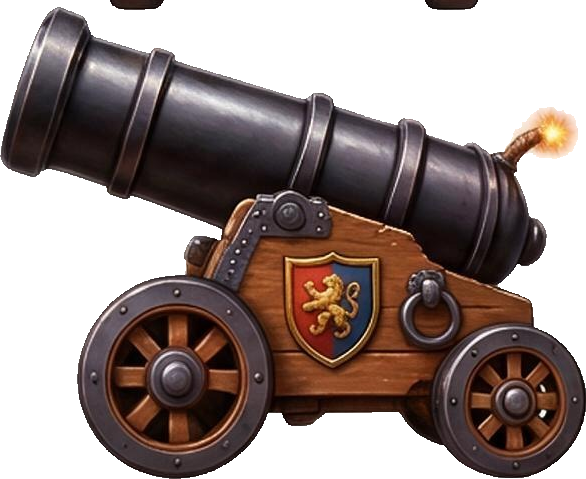
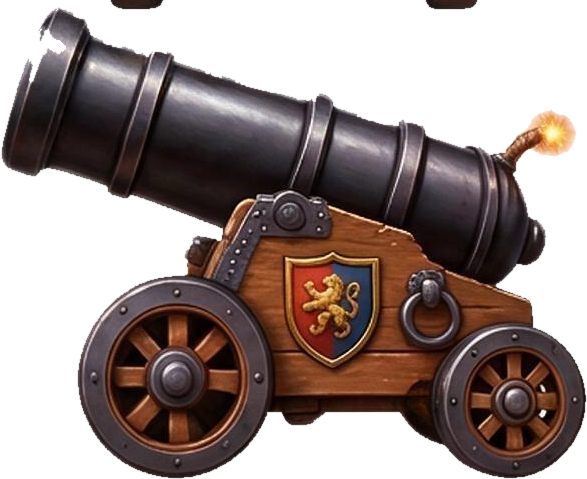
tweak(mole): 대포 위치/크기 미세조정 + 흰테두리 노이즈 제거 + 원형 포탄 + 화염 절반 (v102)
- POSES[].dx: low -0.07(좌 0.5cm), mid -0.014(좌 0.1cm), steep 0.045(우)
- low 포즈 -10% (w 0.291)
- key_white() 재작성: 경계 밝은 AA 프린지까지 band-flood 로 제거 → 흰테두리 노이즈 사라짐
- cannon-ball: 불꼬리 죽이고 원형 알파 마스크 (round_ball) — 이제 완전 동그람
- FLASH_W/SMOKE_W 절반 (0.30/0.16 → 0.15/0.08) + 포신 접합부 mask 페이드
- 원본 대포.png/대포 화염.png → assets/src/ 커밋 (슬라이스 재현 가능)

Claude-Session: https://claude.ai/code/session_01UpkCYvxAzXDPM1qMKLW4MD

diff --git a/mole/js/lane-cannon.js b/mole/js/lane-cannon.js
@@ -23,18 +23,18 @@
   //  aim  : 이 포즈 포신이 겨누는 방향 (deg, 화면좌표)
   //  tweak: 존 안에서 허용하는 미세 회전 최대치 (deg)
   const POSES = [
-    { key: 'low',   src: 'assets/weapons/cannon-low.png',   w: 0.323, ar: 0.817,
-      mu: 0.055, mv: 0.15, aim: -152, tweak: 13 },
+    { key: 'low',   src: 'assets/weapons/cannon-low.png',   w: 0.291, ar: 0.817,
+      mu: 0.055, mv: 0.15, aim: -152, tweak: 13, dx: -0.07 },
     { key: 'mid',   src: 'assets/weapons/cannon.png',       w: 0.266, ar: 1.185,
-      mu: 0.07,  mv: 0.15, aim: -138, tweak: 20 },
+      mu: 0.07,  mv: 0.15, aim: -138, tweak: 20, dx: -0.014 },
     { key: 'steep', src: 'assets/weapons/cannon-steep.png', w: 0.223, ar: 1.538,
-      mu: 0.50,  mv: 0.05, aim: -94,  tweak: 8, dx: 0.03 }
+      mu: 0.50,  mv: 0.05, aim: -94,  tweak: 8, dx: 0.045 }
   ];
 
   const REST_KEY = 'mid';                  // 발사 후 되돌아갈 기본 대기 포즈
   const FLASH_BASE_DEG = -150;             // 화염·연기 스프라이트가 기본으로 향한 방향
-  const FLASH_W = 0.30, FLASH_AR = 294 / 371;  // 화염 폭(보드분수) / 높이비 (cannon-flash 371x294)
-  const SMOKE_W = 0.16, SMOKE_AR = 254 / 211;  // 연기 폭 / 높이비 (cannon-smoke 211x254)
+  const FLASH_W = 0.15, FLASH_AR = 294 / 371;  // 화염 폭(보드분수) / 높이비 (cannon-flash 371x294)
+  const SMOKE_W = 0.08, SMOKE_AR = 254 / 211;  // 연기 폭 / 높이비 (cannon-smoke 211x254)
   const AIM_MS = 90;                       // 포즈 전환 + 미세 조준
   const RECOIL = [0.012, 0.024, 0.040];    // 살짝/보통/강 (보드 분수)
   const KICK_SEC = 0.06, SETTLE_SEC = 0.34;

diff --git a/mole/style.css b/mole/style.css
@@ -1045,6 +1045,9 @@ body { background: var(--lm-page); }
   transform: rotate(var(--lc-rot)) scale(0.45);
   transform-origin: 100% 50%;
   filter: drop-shadow(0 0 12px rgba(255, 150, 50, 0.8));
+  /* 포신과 만나는 오른쪽 끝을 부드럽게 페이드 (하드 크롭 선 감춤) */
+  -webkit-mask-image: linear-gradient(to left, transparent 0, #000 22%);
+  mask-image: linear-gradient(to left, transparent 0, #000 22%);
   z-index: 2;
 }
 .lc-flash.is-on { animation: lc-flash 0.2s ease-out forwards; }
@@ -1057,6 +1060,8 @@ body { background: var(--lm-page); }
   opacity: 0; --lc-rot: 0deg;
   transform: rotate(var(--lc-rot)) scale(0.6);
   transform-origin: 100% 50%;
+  -webkit-mask-image: linear-gradient(to left, transparent 0, #000 20%);
+  mask-image: linear-gradient(to left, transparent 0, #000 20%);
   z-index: 0;
 }
 .lc-smoke.is-on { animation: lc-smoke 0.5s ease-out forwards; }

diff --git a/mole/sw.js b/mole/sw.js
@@ -3,7 +3,7 @@
 // → 파일이 바뀌면 CACHE 버전을 안 올려도 "다음 실행"에 자동 반영된다 (이전엔 캐시-우선이라
 //   sw.js 자체가 안 바뀌면 style.css/이미지 변경이 폰에 영영 안 걸렸음).
 // SHELL 목록 자체가 바뀔 때만 CACHE 를 올린다.
-const CACHE = 'mole-game-v101';
+const CACHE = 'mole-game-v102';
 
 // bgm-boss-battle.mp3(6.8MB)는 SHELL 에 안 넣는다 — BGM 은 기본 꺼짐이라 켜는 사람만 받으면 된다.
 // vendor/face_mesh/*(약 10MB, 얼굴인식)도 SHELL 제외 — 사람두더지 메이커 처음 열 때만 필요.

diff --git a/mole/index.html b/mole/index.html
@@ -84,7 +84,7 @@
       <div id="pause-veil" class="mole-board-layer" aria-hidden="true">일시정지</div>
 
       <!-- 시작 UI = 카톡풍 대화 (폰 화면 = 보드 안) -->
-      <div id="build-tag" aria-hidden="true">v101</div>
+      <div id="build-tag" aria-hidden="true">v102</div>
       <div id="board-start" class="board-panel board-start">
         <!-- 최고 스코어: 위에서 툭 내려오는 문자 알림 -->
         <div id="start-best" class="chat-sms" aria-hidden="true">

diff --git a/mole/scripts/slice-weapons.py b/mole/scripts/slice-weapons.py
@@ -20,9 +20,23 @@ from collections import deque
 from PIL import Image, ImageFilter
 
 HERE = os.path.dirname(os.path.abspath(__file__))
+SRC = os.path.join(os.path.dirname(HERE), 'assets', 'src')
 OUT = os.path.join(os.path.dirname(HERE), 'assets', 'weapons')
-SRC_CANNON = os.path.join(os.path.expanduser('~'), 'Desktop', '대포.png')
-SRC_FIRE = os.path.join(os.path.expanduser('~'), 'Desktop', '대포 화염.png')
+_DESK = os.path.join(os.path.expanduser('~'), 'Desktop')
+
+
+def _find(repo_name, desk_name):
+    """repo assets/src (커밋본) 우선, 없으면 바탕화면 루트 / '대포 이미지/'."""
+    for c in (os.path.join(SRC, repo_name),
+              os.path.join(_DESK, desk_name),
+              os.path.join(_DESK, '대포 이미지', desk_name)):
+        if os.path.exists(c):
+            return c
+    return os.path.join(SRC, repo_name)
+
+
+SRC_CANNON = _find('cannon-poses.png', '대포.png')
+SRC_FIRE = _find('cannon-fire.png', '대포 화염.png')
 SRC_ANGLES = os.path.join(os.path.dirname(HERE), 'assets', 'src', 'cannon-angles.jpg')
 
 # cannon-angles.jpg (2496x1664) 셀 박스 — 연결요소 검출로 잡은 값
@@ -32,49 +46,90 @@ ANGLE_BOXES = {
 }
 
 
-def key_white(im):
-    """흰 배경을 테두리에서 flood 로 제거 (대포 내부엔 흰색 없음)."""
+def key_white(im, band=4):
+    """흰 배경을 테두리 flood 로 제거 + 경계의 밝은 AA 프린지(흰 테두리 노이즈)까지 먹는다.
+    대포 아웃라인은 어두워서(luma<80) flood 가 거기서 멈추고, 나무·문장·불꽃은 채도가
+    있어 안전. band = 실루엣 가장자리에서 몇 px 까지 프린지로 볼지."""
     im = im.convert('RGBA')
     px = im.load()
     w, h = im.size
 
-    def whiteish(x, y):
-        r, g, b, a = px[x, y]
-        return a > 0 and (r + g + b) / 3 > 225 and max(r, g, b) - min(r, g, b) < 24
+    def lum(x, y):
+        r, g, b, _ = px[x, y]
+        return (r + g + b) / 3
 
-    seen = bytearray(w * h)
+    def chroma(x, y):
+        r, g, b, _ = px[x, y]
+        return max(r, g, b) - min(r, g, b)
+
+    def bg_pure(x, y):        # 확실한 배경(흰색)
+        return px[x, y][3] > 0 and lum(x, y) > 208 and chroma(x, y) < 30
+
+    def fringe(x, y):         # 경계의 밝은 저채도 AA 밴드
+        return px[x, y][3] > 0 and lum(x, y) >= 132 and chroma(x, y) <= 44
+
+    # 1) 테두리에서 순수 배경 flood
+    dist = [-1] * (w * h)
     dq = deque()
     for x in range(w):
         for y in (0, h - 1):
-            if whiteish(x, y):
-                seen[y * w + x] = 1
+            if bg_pure(x, y):
+                dist[y * w + x] = 0
                 dq.append((x, y))
     for y in range(h):
         for x in (0, w - 1):
-            if whiteish(x, y):
-                seen[y * w + x] = 1
+            if bg_pure(x, y):
+                dist[y * w + x] = 0
                 dq.append((x, y))
     while dq:
         x, y = dq.popleft()
+        d = dist[y * w + x]
         for nx, ny in ((x + 1, y), (x - 1, y), (x, y + 1), (x, y - 1)):
-            if 0 <= nx < w and 0 <= ny < h and not seen[ny * w + nx] and whiteish(nx, ny):
-                seen[ny * w + nx] = 1
+            if not (0 <= nx < w and 0 <= ny < h) or dist[ny * w + nx] != -1:
+                continue
+            i = ny * w + nx
+            if bg_pure(nx, ny):
+                dist[i] = 0
+                dq.append((nx, ny))
+            elif d < band and fringe(nx, ny):   # 경계 band px 안의 밝은 프린지도 먹음
+                dist[i] = d + 1
                 dq.append((nx, ny))
     for i in range(w * h):
-        if seen[i]:
+        if dist[i] >= 0:
             x, y = i % w, i // w
             r, g, b, _ = px[x, y]
             px[x, y] = (r, g, b, 0)
-    # 알파 1px 침식 + 남은 near-white 프린지 제거
-    al = im.split()[3].filter(ImageFilter.MinFilter(3))
+
+    # 2) 알파 1px 침식 + 살짝 블러로 계단 완화
+    al = im.split()[3].filter(ImageFilter.MinFilter(3)).filter(ImageFilter.GaussianBlur(0.6))
     im.putalpha(al)
+
+    # 3) 남은 밝은 반투명 프린지 제거
     px = im.load()
     for y in range(h):
         for x in range(w):
             r, g, b, a = px[x, y]
-            if 0 < a < 255 and min(r, g, b) > 200:
+            if 0 < a < 255 and lum(x, y) > 175 and chroma(x, y) < 40:
                 px[x, y] = (r, g, b, 0)
     return im
+
+
+def round_ball(src, cx, cy, r):
+    """대포 화염 시트에서 철구를 (cx,cy) 중심 반지름 r 로 잘라 원형 알파 마스크."""
+    from PIL import ImageDraw
+    crop = src.crop((cx - r, cy - r, cx + r, cy + r)).convert('RGBA')
+    n = crop.size[0]
+    px = crop.load()
+    for y in range(n):          # 밝은 주황 불꼬리 픽셀 제거
+        for x in range(n):
+            rr, gg, bb, a = px[x, y]
+            if rr > 150 and rr > bb + 60:
+                px[x, y] = (rr, gg, bb, 0)
+    m = Image.new('L', (n * 4, n * 4), 0)
+    ImageDraw.Draw(m).ellipse((2, 2, n * 4 - 2, n * 4 - 2), fill=255)
+    m = m.resize((n, n), Image.LANCZOS).filter(ImageFilter.GaussianBlur(0.6))
+    crop.putalpha(m)
+    return crop
 
 
 def drop_specks(im, min_area=1200):
@@ -117,10 +172,7 @@ def cap(im, mx):
 def main():
     os.makedirs(OUT, exist_ok=True)
 
-    cn = Image.open(SRC_CANNON).convert('RGBA')
-    cap(crop_bbox(cn, (1112, 40, 1522, 528)), 340).save(os.path.join(OUT, 'cannon.png'))
-
-    # 조준 포즈 2개 (흰 배경 시트에서 키아웃 + bbox 트림)
+    # 조준 포즈 2개 (흰 배경 시트에서 키아웃 + bbox 트림) — 소스가 repo 안이라 항상 실행
     ang = Image.open(SRC_ANGLES).convert('RGBA')
     for name, box in ANGLE_BOXES.items():
         sp = key_white(ang.crop(box))
@@ -129,12 +181,17 @@ def main():
             sp = sp.crop(bb)
         cap(sp, 600).save(os.path.join(OUT, name + '.png'))
 
-    fr = Image.open(SRC_FIRE).convert('RGBA')
-    # 화염 = 불꽃+스파크+바깥 연기 넓게 (사용자가 큰 화염 선호). 포신 금속만 제외.
-    cap(crop_bbox(fr, (14, 0, 408, 300)), 460).save(os.path.join(OUT, 'cannon-flash.png'))
-    cap(crop_bbox(fr, (792, 36, 1010, 290)), 280).save(os.path.join(OUT, 'cannon-smoke.png'))
-    # 포탄 = 깨끗한 검은 철구 (불꼬리 제외 — 구는 회전해도 똑같아 각도 상관없음).
-    cap(crop_bbox(fr, (2, 526, 80, 602)), 96).save(os.path.join(OUT, 'cannon-ball.png'))
+    # 아래는 바탕화면 원본이 있을 때만 (이미 생성·커밋돼 있음)
+    if os.path.exists(SRC_CANNON):
+        cn = Image.open(SRC_CANNON).convert('RGBA')
+        cap(crop_bbox(cn, (1112, 40, 1522, 528)), 340).save(os.path.join(OUT, 'cannon.png'))
+    if os.path.exists(SRC_FIRE):
+        fr = Image.open(SRC_FIRE).convert('RGBA')
+        # 화염 = 불꽃+스파크+바깥 연기 넓게. 포신 금속만 제외.
+        cap(crop_bbox(fr, (14, 0, 408, 300)), 460).save(os.path.join(OUT, 'cannon-flash.png'))
+        cap(crop_bbox(fr, (792, 36, 1010, 290)), 280).save(os.path.join(OUT, 'cannon-smoke.png'))
+        # 포탄 = 깨끗한 원형 철구 (불꼬리 죽이고 원형 알파 마스크).
+        round_ball(fr, 55, 576, 33).save(os.path.join(OUT, 'cannon-ball.png'))
 
     for n in ('cannon', 'cannon-low', 'cannon-steep', 'cannon-flash', 'cannon-smoke', 'cannon-ball'):
         p = os.path.join(OUT, n + '.png')
